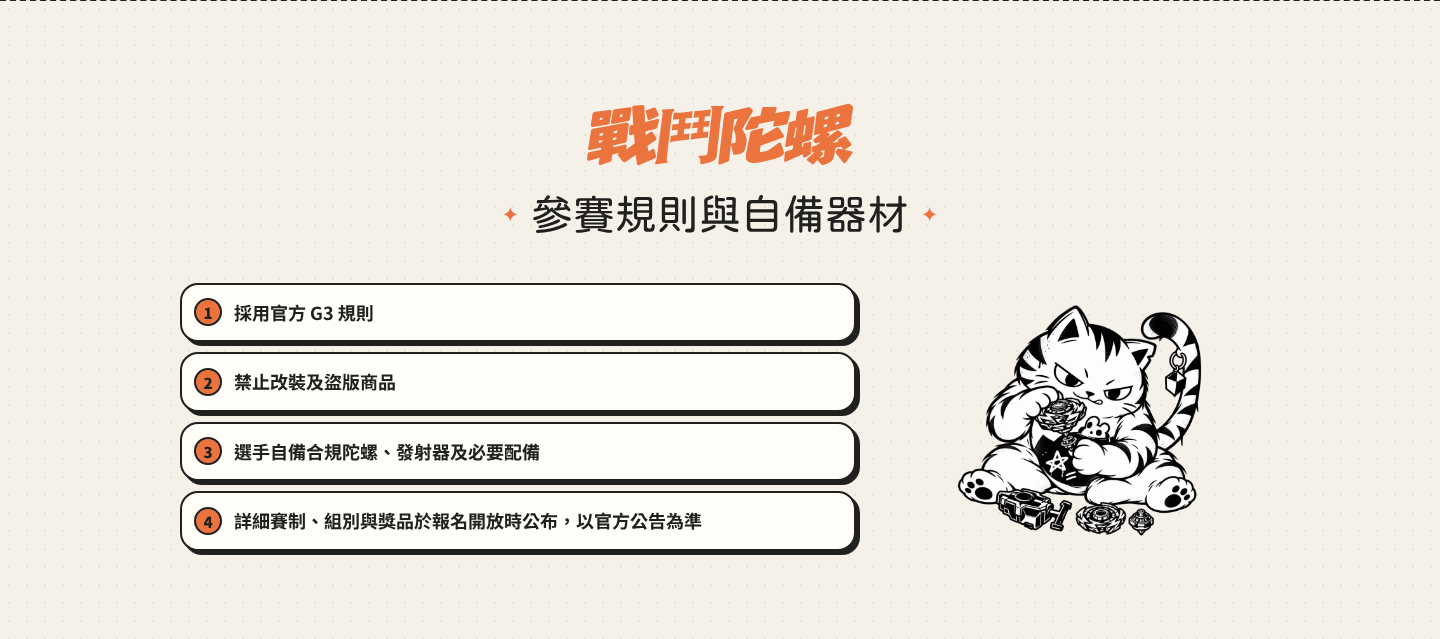
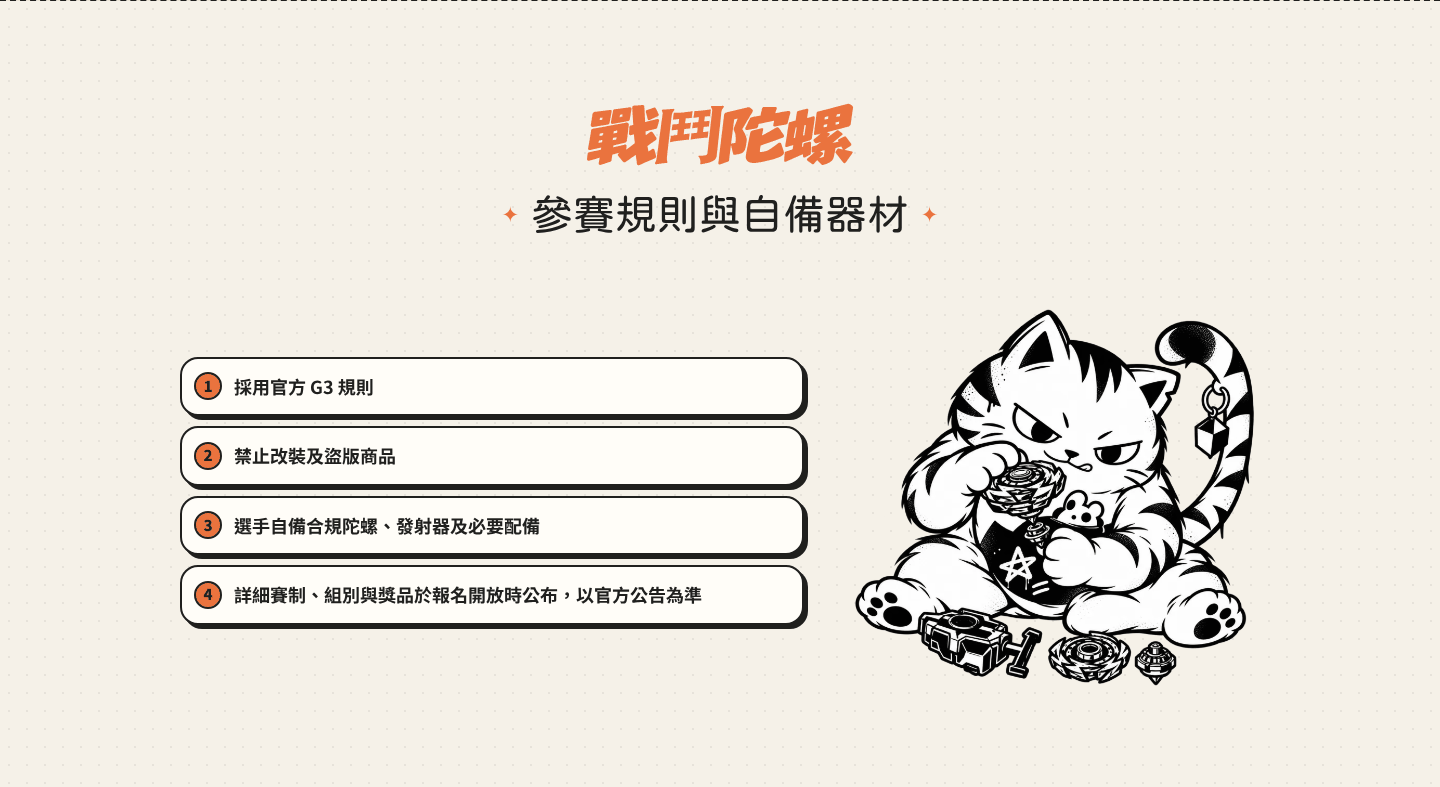
/cup/ 參賽規則：編號數字置中、攤玩貓放大
- 編號圓圈加 line-height: 1、tabular-nums，並往上 2px 修正 Noto Sans TC 數字偏下
- cat-tune 桌機放大到最寬 420px（欄寬改 1.2fr .8fr），手機最寬 320px
- 更新 cup-rules 截圖，新增 4 倍放大的編號圓圈對照圖

Claude-Session: https://claude.ai/code/session_012dQHuckgmktwtxDEBvdD1o

Changed region(s): [[0.125, 0.3865, 0.875, 0.892], [0.3438, 0.1189, 0.6562, 0.3865], [0.5938, 0.4757, 0.625, 0.5055]]

diff --git a/cup/cup.css b/cup/cup.css
@@ -178,8 +178,12 @@
   border-radius: 50%;
   font-weight: 900;
   font-size: .9375rem;
+  line-height: 1;
+  font-variant-numeric: tabular-nums;
+  /* Noto Sans TC 的數字視覺偏下，往上推回圓心 */
+  padding-bottom: 2px;
 }
-.cup-rules-art img { width: min(70%, 300px); margin: 0 auto; }
+.cup-rules-art img { width: min(80%, 320px); margin: 0 auto; }
 
 /* ---------- 報名方式與獎品 ---------- */
 .cup-signup { display: grid; gap: 20px; }
@@ -344,7 +348,8 @@
   .cup-entry-card { display: flex; flex-direction: column; justify-content: center; }
   .cup-stat { display: flex; flex-direction: column; justify-content: center; }
 
-  .cup-rules { grid-template-columns: 1.3fr .7fr; gap: 40px; }
+  .cup-rules { grid-template-columns: 1.2fr .8fr; gap: 40px; }
+  .cup-rules-art img { width: min(100%, 420px); }
 
   .cup-signup { grid-template-columns: 1.2fr .8fr; }
   .cup-monthly { grid-template-columns: 1.25fr .75fr; align-items: stretch; }
